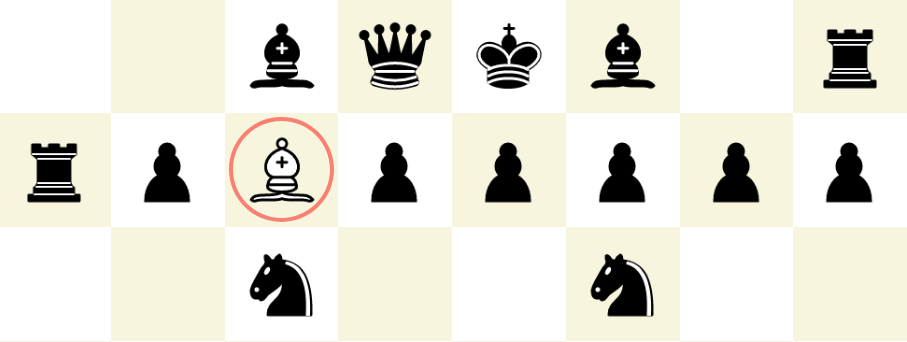
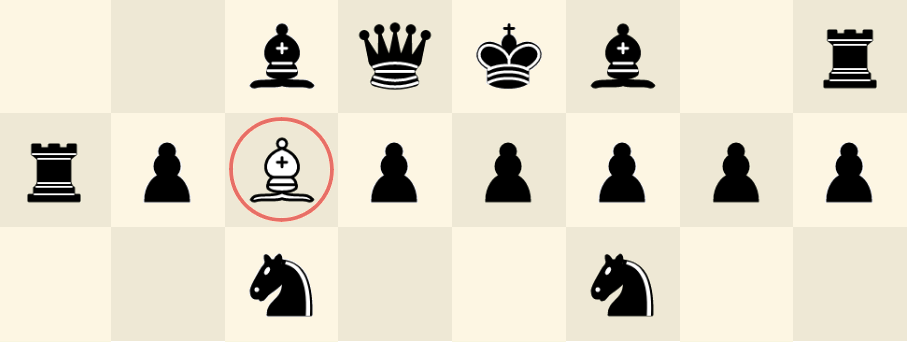
Change color theme

diff --git a/src/ui/AnimatedSpinner.js b/src/ui/AnimatedSpinner.js
@@ -1,0 +1,122 @@
+/*
+ * A free and open source chess game using AssemblyScript and React
+ * Copyright (C) 2019 mhonert (https://github.com/mhonert)
+ *
+ * This program is free software: you can redistribute it and/or modify
+ * it under the terms of the GNU General Public License as published by
+ * the Free Software Foundation, either version 3 of the License, or
+ * (at your option) any later version.
+ *
+ * This program is distributed in the hope that it will be useful,
+ * but WITHOUT ANY WARRANTY; without even the implied warranty of
+ * MERCHANTABILITY or FITNESS FOR A PARTICULAR PURPOSE.  See the
+ * GNU General Public License for more details.
+ *
+ * You should have received a copy of the GNU General Public License
+ * along with this program.  If not, see <https://www.gnu.org/licenses/>.
+ */
+
+import styled from 'styled-components/macro';
+import React from 'react';
+
+/* Animated spinner adapted from https://loading.io/css/ */
+const AnimatedSpinner = styled.div`
+  color: #073642;
+  display: inline-block;
+  position: relative;
+  width: 80px;
+  height: 80px;
+  
+  margin-top: 2rem;
+  margin-right: 3rem;
+  margin-left: 3rem;
+  
+  div {
+    transform-origin: 40px 40px;
+    animation: lds-spinner 1.2s linear infinite;
+  }
+  div:after {
+    content: " ";
+    display: block;
+    position: absolute;
+    top: 3px;
+    left: 37px;
+    width: 6px;
+    height: 18px;
+    border-radius: 20%;
+    background: #073642;
+  }
+  div:nth-child(1) {
+    transform: rotate(0deg);
+    animation-delay: -1.1s;
+  }
+  div:nth-child(2) {
+    transform: rotate(30deg);
+    animation-delay: -1s;
+  }
+  div:nth-child(3) {
+    transform: rotate(60deg);
+    animation-delay: -0.9s;
+  }
+  div:nth-child(4) {
+    transform: rotate(90deg);
+    animation-delay: -0.8s;
+  }
+  div:nth-child(5) {
+    transform: rotate(120deg);
+    animation-delay: -0.7s;
+  }
+  div:nth-child(6) {
+    transform: rotate(150deg);
+    animation-delay: -0.6s;
+  }
+  div:nth-child(7) {
+    transform: rotate(180deg);
+    animation-delay: -0.5s;
+  }
+  div:nth-child(8) {
+    transform: rotate(210deg);
+    animation-delay: -0.4s;
+  }
+  div:nth-child(9) {
+    transform: rotate(240deg);
+    animation-delay: -0.3s;
+  }
+  div:nth-child(10) {
+    transform: rotate(270deg);
+    animation-delay: -0.2s;
+  }
+  div:nth-child(11) {
+    transform: rotate(300deg);
+    animation-delay: -0.1s;
+  }
+  div:nth-child(12) {
+    transform: rotate(330deg);
+    animation-delay: 0s;
+  }
+  @keyframes lds-spinner {
+    0% {
+      opacity: 1;
+    }
+    100% {
+      opacity: 0;
+    }
+  }
+`
+
+export default () => (
+  <AnimatedSpinner>
+    <div></div>
+    <div></div>
+    <div></div>
+    <div></div>
+    <div></div>
+    <div></div>
+    <div></div>
+    <div></div>
+    <div></div>
+    <div></div>
+    <div></div>
+    <div></div>
+  </AnimatedSpinner>
+);

diff --git a/src/ui/GameMenu.js b/src/ui/GameMenu.js
@@ -19,17 +19,19 @@
 import React from 'react';
 import styled from 'styled-components/macro';
 import { WHITE } from '../engine/constants';
-import { keyframes } from 'styled-components/macro';
+import AnimatedSpinner from './AnimatedSpinner';
 
 const MenuBar = styled.div`
   display: flex;
   flex-direction: column;
-  margin: 1rem;
+  margin-top: 1.5rem;
+  margin-left: 2rem;
   text-align: center;
 
   // center menubar below board, if window width is < window height
   @media (max-aspect-ratio: 100/99) {
-    width: 100%;
+    margin-left: auto;
+    margin-right: auto;
   }
 `;
 
@@ -41,17 +43,18 @@ const MenuItem = styled.div`
 `;
 
 const GameButton = styled.button`
-  background: none;
-  border: 1px solid salmon;
-  border-radius: 0.5rem;
-  color: salmon;
+  background: white;
+  color: #073642;
+  border: 1px solid #073642;
+  border-radius: 0.3rem;
   font-size: 1rem;
   font-weight: bold;
   padding: 0.5rem;
   width: 11rem;
+  box-shadow: 1px 1px 1px #073642;
 
   & :hover {
-    background: salmon;
+    background: #073642;
     color: white;
     cursor: pointer;
   }
@@ -63,49 +66,15 @@ const Label = styled.label`
   width: 100%;
   text-align: center;
   font-size: 0.8rem;
-  color: gray;
-`;
-
-const ThinkingIndicator = styled(MenuItem)`
-  font-weight: bold;
-  margin-left: 1rem;
-  font-size: 1rem;
-  text-align: center;
-  color: salmon;
-`;
-
-const rotate = keyframes`
-  0% {
-    transform: rotate(0deg);
-  }
-  100% {
-    transform: rotate(360deg);
-  }
-`;
-
-const AnimatedDualRing = styled.div`
-  /* Animated spinner from https://loading.io/css/ */
-  display: inline-block;
-  width: 128px;
-  height: 128px;
-  & :after {
-    content: ' ';
-    display: block;
-    width: 80px;
-    height: 80px;
-    margin: 8px;
-    border-radius: 50%;
-    border: 6px solid salmon;
-    border-color: salmon transparent salmon transparent;
-    animation: ${rotate} 1.2s linear infinite;
-  }
+  color: #073642;
 `;
 
 const GameResult = styled(MenuItem)`
   padding-top: 2rem;
   font-weight: bold;
   font-size: 1.5rem;
-  color: salmon;
+  color: #dc322f;
+;
 `;
 
 const colorName = color => (color === WHITE ? 'White' : 'Black');
@@ -151,11 +120,7 @@ const GameMenu = ({
         />
       </MenuItem>
 
-      {isAiThinking && (
-        <ThinkingIndicator>
-          <AnimatedDualRing>Thinking ...</AnimatedDualRing>
-        </ThinkingIndicator>
-      )}
+      {isAiThinking && <AnimatedSpinner /> }
 
       {gameEnded && (
         <GameResult>

diff --git a/src/ui/Field.js b/src/ui/Field.js
@@ -22,9 +22,10 @@ import styled from 'styled-components/macro';
 
 const FieldDiv = styled.div`
   position: relative;
-
+  background-color: #fdf6e3;
+  
   &:nth-child(even) {
-    background-color: #f8f5df;
+    background-color: #eee8d5;
   }
 
   &.move-mark:before {
@@ -37,6 +38,7 @@ const FieldDiv = styled.div`
     display: block;
     border: 0.5vh solid ${props => props.markColor};
     border-radius: 50%;
+    //box-shadow: 0px 0px 1px ${props => props.markColor};
   }
 `;
 
@@ -59,9 +61,9 @@ const Field = ({
     isStart || isEnd || isPossibleTarget ? 'move-mark' : '';
 
   // prettier-ignore
-  const markColor = isPossibleTarget ? '#80fa72'
-                  : isStart ? 'lightpink'
-                  : isEnd ? 'salmon'
+  const markColor = isPossibleTarget ? 'rgba(169,189,0,0.69)'
+                  : isStart ? '#dc322f9f'
+                  : isEnd ? '#dc322faf'
                   : 'white';
 
   return (

diff --git a/src/ui/Board.js b/src/ui/Board.js
@@ -27,7 +27,8 @@ const BoardGrid = styled.div`
     grid-template-columns: 0 repeat(8, 1fr);
     grid-template-rows: 0 repeat(8, 1fr);
 
-    border-right: 1px solid salmon;
+    //border-right: 3px outset #586e75;
+    box-shadow: 3px 3px 3px #586e75;
     
     // always keep board size rectangular and maximized to the smaller axis
     @media (min-aspect-ratio: 99/100) {

diff --git a/src/index.css b/src/index.css
@@ -5,6 +5,7 @@ body {
     sans-serif;
   -webkit-font-smoothing: antialiased;
   -moz-osx-font-smoothing: grayscale;
+  background-color: white;
 }
 
 code {
